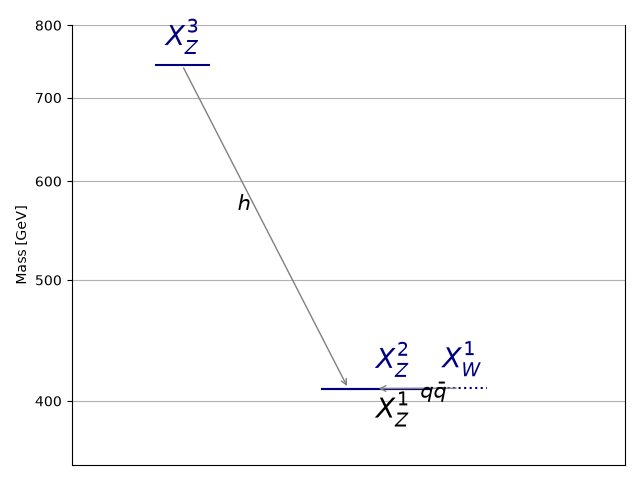
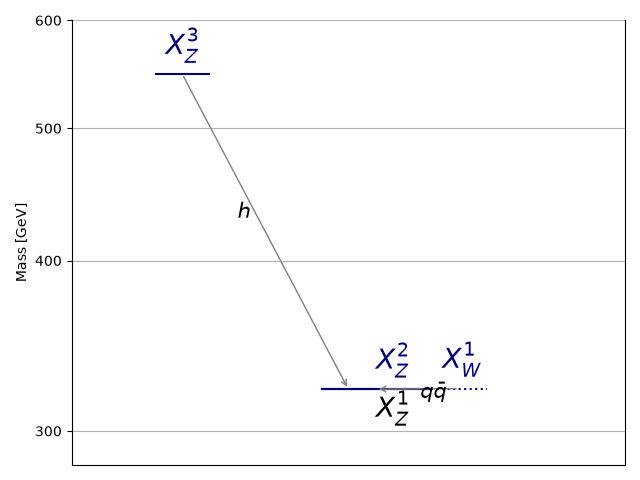
automated update by plotHiscore.py to rundir6_320:     K=8.913 TL=13.66 walkerid=617

diff --git a/protomodels/rundir6_320/index.html b/protomodels/rundir6_320/index.html
@@ -1,27 +1,27 @@
 <html>
 <body>
 <center>
-<table><td><h1>Current best protomodel: <i>K</i>=2.02, <i>TL</i>=6.54</h1><td><img height=60px src=https://smodels.github.io//protomodels/logos/protomodel_lego.png></table>
+<table><td><h1>Current best protomodel: <i>K</i>=8.91, <i>TL</i>=13.66</h1><td><img height=60px src=https://smodels.github.io//protomodels/logos/protomodel_lego.png></table>
 </center>
-<b><a href=./hiscore.slha>ProtoModel</a> <a href=./pmodel.dict>(dict)</a> produced with <a href=https://smodels.github.io//docs/Validation320>database v3.2.0</a>, allowed_extr 0.05 in walker 607 step 5.</b> <br>
+<b><a href=./hiscore.slha>ProtoModel</a> <a href=./pmodel.dict>(dict)</a> produced with <a href=https://smodels.github.io//docs/Validation320>database v3.2.0</a>, allowed_extr 0.05 in walker 617 step 228.</b> <br>
 <table width=80%>
 <tr><td>
 <br><b>Critics:</b> passed both critics<br>
-<br><b>UL Critic: 1/2 analyses exclude</b><br>
-ATLAS-SUSY-2018-19:SR_EW:: <span style='color: darkred;'>r<sub>obs</sub>=1.503, r<sub>exp</sub>=1.464</span><br>
-CMS-SUS-20-004:ul:: <span style='color: darkgreen;'>r<sub>obs</sub>=0.438, r<sub>exp</sub>=0.807</span><br>
-ATLAS-SUSY-2016-06:SR_EW:: <span style='color: darkgreen;'>r<sub>obs</sub>=0.414, r<sub>exp</sub>=0.325</span><br>
-<br><b>LLHD Critic:</b> ATLAS-SUSY-2018-19:SR_EW, CMS-SUS-20-004:matrix.cov, CMS-EXO-19-010:SR_nlay5, ATLAS-SUSY-2018-42:SR400_High_long, CMS-EXO-20-004:matrix.cov:: <span style='color: darkgreen;'>r<sub>obs</sub>=1.0, r<sub>exp</sub>=1.95</span><br>
+<br><b>UL Critic: 0/4 analyses exclude</b><br>
+CMS-EXO-19-010:SR_nlay6p:: <span style='color: darkgreen;'>r<sub>obs</sub>=1.303, r<sub>exp</sub>=0.798</span><br>
+ATLAS-SUSY-2018-19:SR_EW:: <span style='color: darkgreen;'>r<sub>obs</sub>=1.152, r<sub>exp</sub>=1.121</span><br>
+ATLAS-EXOT-2018-06:EM12:: <span style='color: darkgreen;'>r<sub>obs</sub>=0.889, r<sub>exp</sub>=0.742</span><br>
+<br><b>LLHD Critic:</b> CMS-SUS-20-004:matrix.cov, ATLAS-SUSY-2018-19:SR_EW, CMS-EXO-19-010:SR_nlay6p, CMS-EXO-20-004:matrix.cov, ATLAS-SUSY-2018-42:SR300_High_long:: <span style='color: darkred;'>r<sub>obs</sub>=1.14, r<sub>exp</sub>=2.34</span><br>
 </ul>
-<td><img width=600px src=./texdoc.png?1792096046>
-<br><span style='font-size: smaller; color: darkred;'>Last updated: Thu Oct 15 22:27:26 2026</span>
-<br><br><b>8 predictions available. Highest r values are:</b><br><ul>
-<li><a href=https://atlas.web.cern.ch/Atlas/GROUPS/PHYSICS/PAPERS/SUSY-2018-19/>ATLAS-SUSY-2018-19</a>:SR_EW:TDTM2F r=1.50, r<sub>exp</sub>=1.46<br>
-<li><a href=http://cms-results.web.cern.ch/cms-results/public-results/publications/SUS-20-004/>CMS-SUS-20-004</a>:ul:TChiHH r=0.44, r<sub>exp</sub>=0.81<br>
-<li><a href=https://atlas.web.cern.ch/Atlas/GROUPS/PHYSICS/PAPERS/SUSY-2016-06/>ATLAS-SUSY-2016-06</a>:SR_EW:TDTM2F r=0.41, r<sub>exp</sub>=0.33<br>
-<li><a href=http://cms-results.web.cern.ch/cms-results/public-results/publications/EXO-19-010/>CMS-EXO-19-010</a>:SR_nlay5:TDTM2F r=0.35, r<sub>exp</sub>=0.47<br>
+<td><img width=600px src=./texdoc.png?1792132694>
+<br><span style='font-size: smaller; color: darkred;'>Last updated: Fri Oct 16 08:38:14 2026</span>
+<br><br><b>7 predictions available. Highest r values are:</b><br><ul>
+<li><a href=http://cms-results.web.cern.ch/cms-results/public-results/publications/EXO-19-010/>CMS-EXO-19-010</a>:SR_nlay6p:TDTM2F r=1.30, r<sub>exp</sub>=0.80<br>
+<li><a href=https://atlas.web.cern.ch/Atlas/GROUPS/PHYSICS/PAPERS/SUSY-2018-19/>ATLAS-SUSY-2018-19</a>:SR_EW:TDTM2F r=1.15, r<sub>exp</sub>=1.12<br>
+<li><a href=https://atlas.web.cern.ch/Atlas/GROUPS/PHYSICS/PAPERS/EXOT-2018-06/>ATLAS-EXOT-2018-06</a>:EM12:TChiISR r=0.89, r<sub>exp</sub>=0.74<br>
+<li><a href=http://cms-results.web.cern.ch/cms-results/public-results/publications/SUS-20-004/>CMS-SUS-20-004</a>:ul:TChiHH r=0.53, r<sub>exp</sub>=0.99<br>
 </table><table style="width:80%">
-<td width=40%><img height=450px src=./mass_hierarchy.png?1792096046><td width=60%><font size=-3><iframe type="text/html" height="350px" width="100%" frameborder="0" src="./rawnumbers.html?1792096046"></iframe></font>
+<td width=40%><img height=450px src=./mass_hierarchy.png?1792132694><td width=60%><font size=-3><iframe type="text/html" height="350px" width="100%" frameborder="0" src="./rawnumbers.html?1792132694"></iframe></font>
 </table>
 </body>
 </html>

diff --git a/protomodels/rundir6_320/rawnumbers.html b/protomodels/rundir6_320/rawnumbers.html
@@ -1,11 +1,11 @@
 <table>
 <tr><th>Analysis Name</th><th>Type</th><th>Dataset</th><th>Topos</th><th>Observed</th><th>Expected</th><th>Approx &sigma;</th><th>Particles</th>
 </tr>
-<tr><td><a href=https://atlas.web.cern.ch/Atlas/GROUPS/PHYSICS/PAPERS/EXOT-2018-06/>ATLAS-EXOT-2018-06</a></td><td>em</td> <td>EM10</td><td>TChiISR</td><td>413</td><td>359.00 +/- 10.00</td><td style="text-align:right">2.4 &sigma;</td><td style="text-align:right">X<sup>2</sup><sub>Z</sub>, X<sup>1</sup><sub>Z</sub></td></tr>
-<tr><td><a href=http://cms-results.web.cern.ch/cms-results/public-results/publications/SUS-20-004/>CMS-SUS-20-004</a></td><td>comb</td> <td>-</td><td>TChiHH</td><td> 0.2 fb </td><td> 0.1 fb</td><td style="text-align:right">1.7 &sigma;</td><td style="text-align:right">X<sup>3</sup><sub>Z</sub>, X<sup>2</sup><sub>Z</sub></td></tr>
+<tr><td><a href=https://atlas.web.cern.ch/Atlas/GROUPS/PHYSICS/PAPERS/EXOT-2018-06/>ATLAS-EXOT-2018-06</a></td><td>em</td> <td>EM10</td><td>TChiISR</td><td>413</td><td>359.00 +/- 10.00</td><td style="text-align:right">2.5 &sigma;</td><td style="text-align:right">X<sup>2</sup><sub>Z</sub>, X<sup>1</sup><sub>Z</sub></td></tr>
+<tr><td><a href=http://cms-results.web.cern.ch/cms-results/public-results/publications/SUS-20-004/>CMS-SUS-20-004</a></td><td>comb</td> <td>-</td><td>TChiHH</td><td> 0.3 fb </td><td> 0.2 fb</td><td style="text-align:right">1.9 &sigma;</td><td style="text-align:right">X<sup>3</sup><sub>Z</sub>, X<sup>2</sup><sub>Z</sub></td></tr>
+<tr><td><a href=http://cms-results.web.cern.ch/cms-results/public-results/publications/EXO-20-004/>CMS-EXO-20-004</a></td><td>comb</td> <td>-</td><td>TChiISR</td><td> 4e+01 fb </td><td> 3e+01 fb</td><td style="text-align:right">1.8 &sigma;</td><td style="text-align:right">X<sup>2</sup><sub>Z</sub>, X<sup>1</sup><sub>Z</sub></td></tr>
 <tr><td><a href=http://cms-results.web.cern.ch/cms-results/public-results/publications/EXO-19-010/>CMS-EXO-19-010</a></td><td>em</td> <td>SR_nlay5</td><td>TDTM2F</td><td>6</td><td>3.70 +/- 1.24</td><td style="text-align:right">0.8 &sigma;</td><td style="text-align:right">X<sup>1</sup><sub>W</sub>, X<sup>2</sup><sub>Z</sub>, X<sup>1</sup><sub>Z</sub></td></tr>
-<tr><td><a href=http://cms-results.web.cern.ch/cms-results/public-results/publications/EXO-20-004/>CMS-EXO-20-004</a></td><td>comb</td> <td>-</td><td>TChiISR</td><td> 3e+01 fb </td><td> 2e+01 fb</td><td style="text-align:right">0.8 &sigma;</td><td style="text-align:right">X<sup>2</sup><sub>Z</sub>, X<sup>1</sup><sub>Z</sub></td></tr>
-<tr><td><a href=https://atlas.web.cern.ch/Atlas/GROUPS/PHYSICS/PAPERS/SUSY-2018-42/>ATLAS-SUSY-2018-42</a></td><td>em</td> <td>SR400_Low_long</td><td>TDTM2F</td><td>33</td><td>29.20 +/- 2.20</td><td style="text-align:right">0.6 &sigma;</td><td style="text-align:right">X<sup>1</sup><sub>W</sub>, X<sup>2</sup><sub>Z</sub>, X<sup>1</sup><sub>Z</sub></td></tr>
+<tr><td><a href=https://atlas.web.cern.ch/Atlas/GROUPS/PHYSICS/PAPERS/SUSY-2018-42/>ATLAS-SUSY-2018-42</a></td><td>em</td> <td>SR300_High_long</td><td>TDTM2F</td><td>7</td><td>5.10 +/- 0.50</td><td style="text-align:right">0.7 &sigma;</td><td style="text-align:right">X<sup>1</sup><sub>W</sub>, X<sup>2</sup><sub>Z</sub>, X<sup>1</sup><sub>Z</sub></td></tr>
 <tr><td><a href=https://atlas.web.cern.ch/Atlas/GROUPS/PHYSICS/PAPERS/SUSY-2016-06/>ATLAS-SUSY-2016-06</a></td><td>em</td> <td>SR_EW</td><td>TDTM2F</td><td>9</td><td>11.80 +/- 3.10</td><td style="text-align:right">-0.7 &sigma;</td><td style="text-align:right">X<sup>1</sup><sub>W</sub>, X<sup>2</sup><sub>Z</sub>, X<sup>1</sup><sub>Z</sub></td></tr>
 </table>
 <table style='color:grey'>
